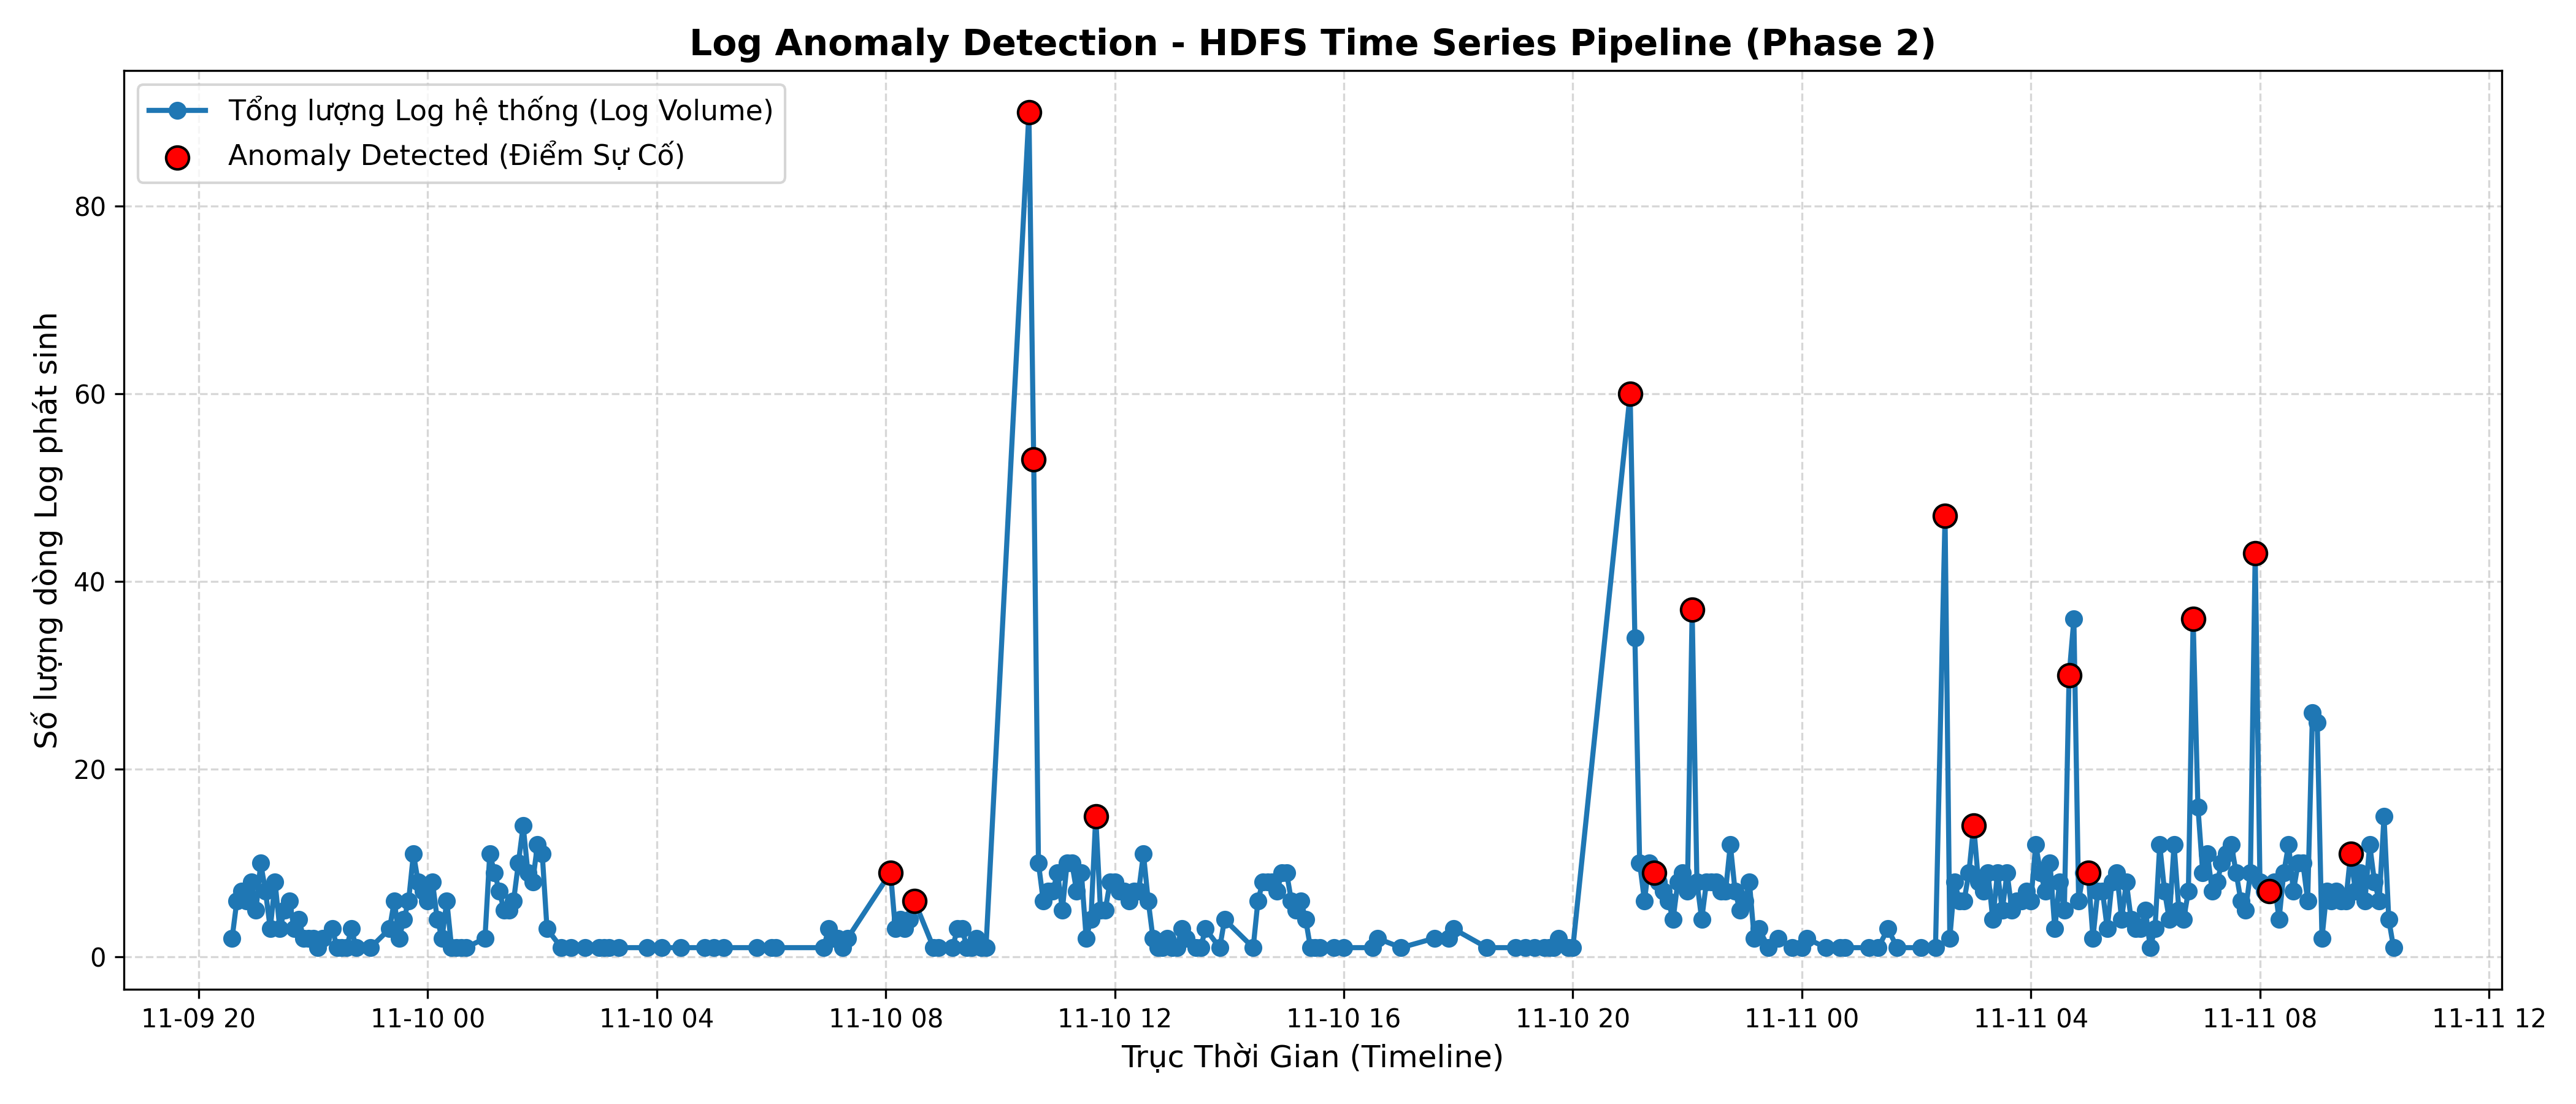
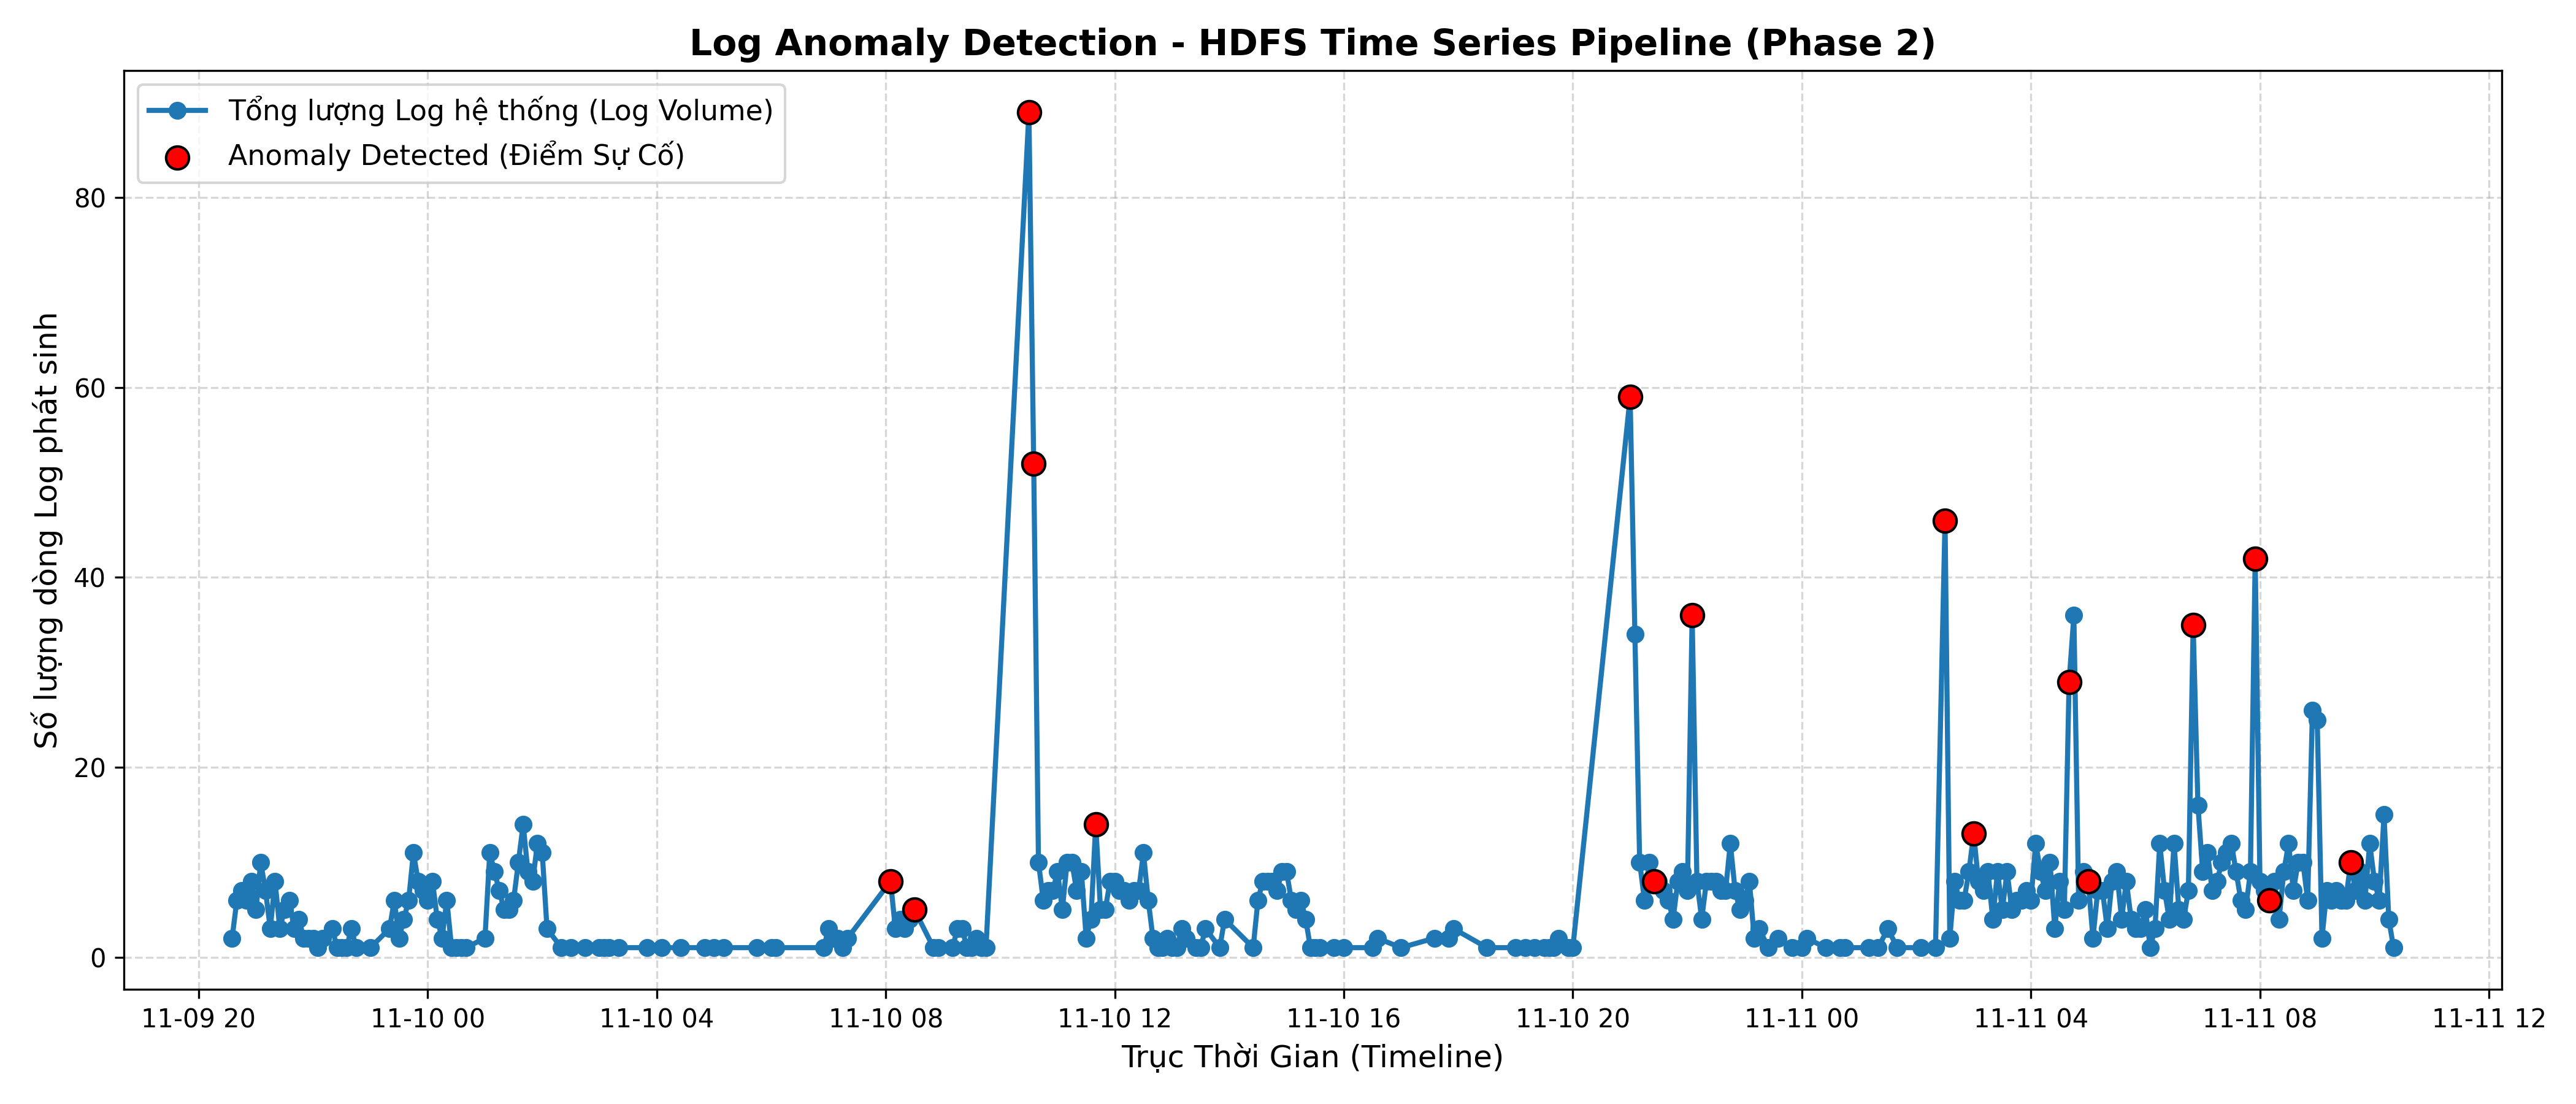
update assignment

diff --git a/w1/day-b/_read_nb.py b/w1/day-b/_read_nb.py
@@ -1,0 +1,10 @@
+import json
+with open('w1/day-b/assignment.ipynb', 'r', encoding='utf-8') as f:
+    nb = json.load(f)
+cells = nb['cells']
+
+for i in [5, 6, 7, 8, 10, 11, 13, 14, 16, 17, 18, 19, 23]:
+    cell = cells[i]
+    print(f'===== CELL {i} [{cell["cell_type"]}] =====')
+    print(''.join(cell['source']))
+    print()